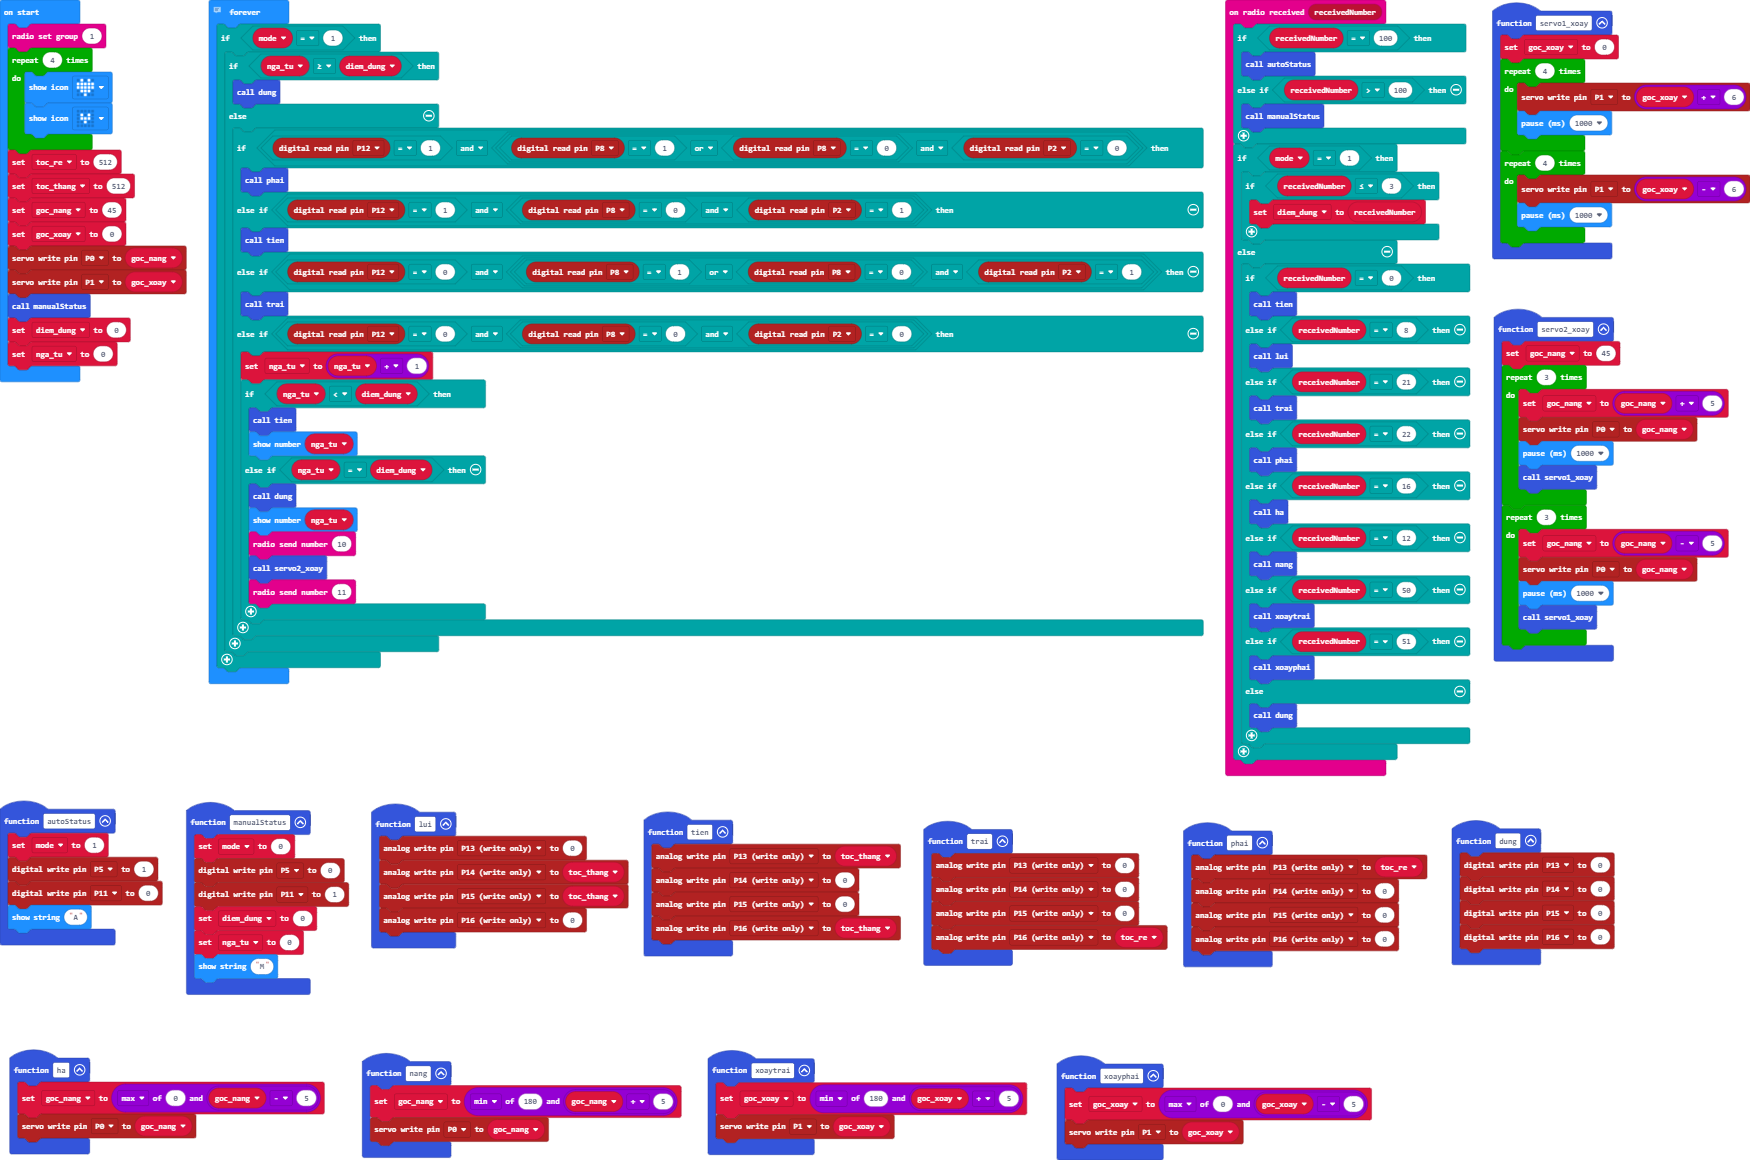
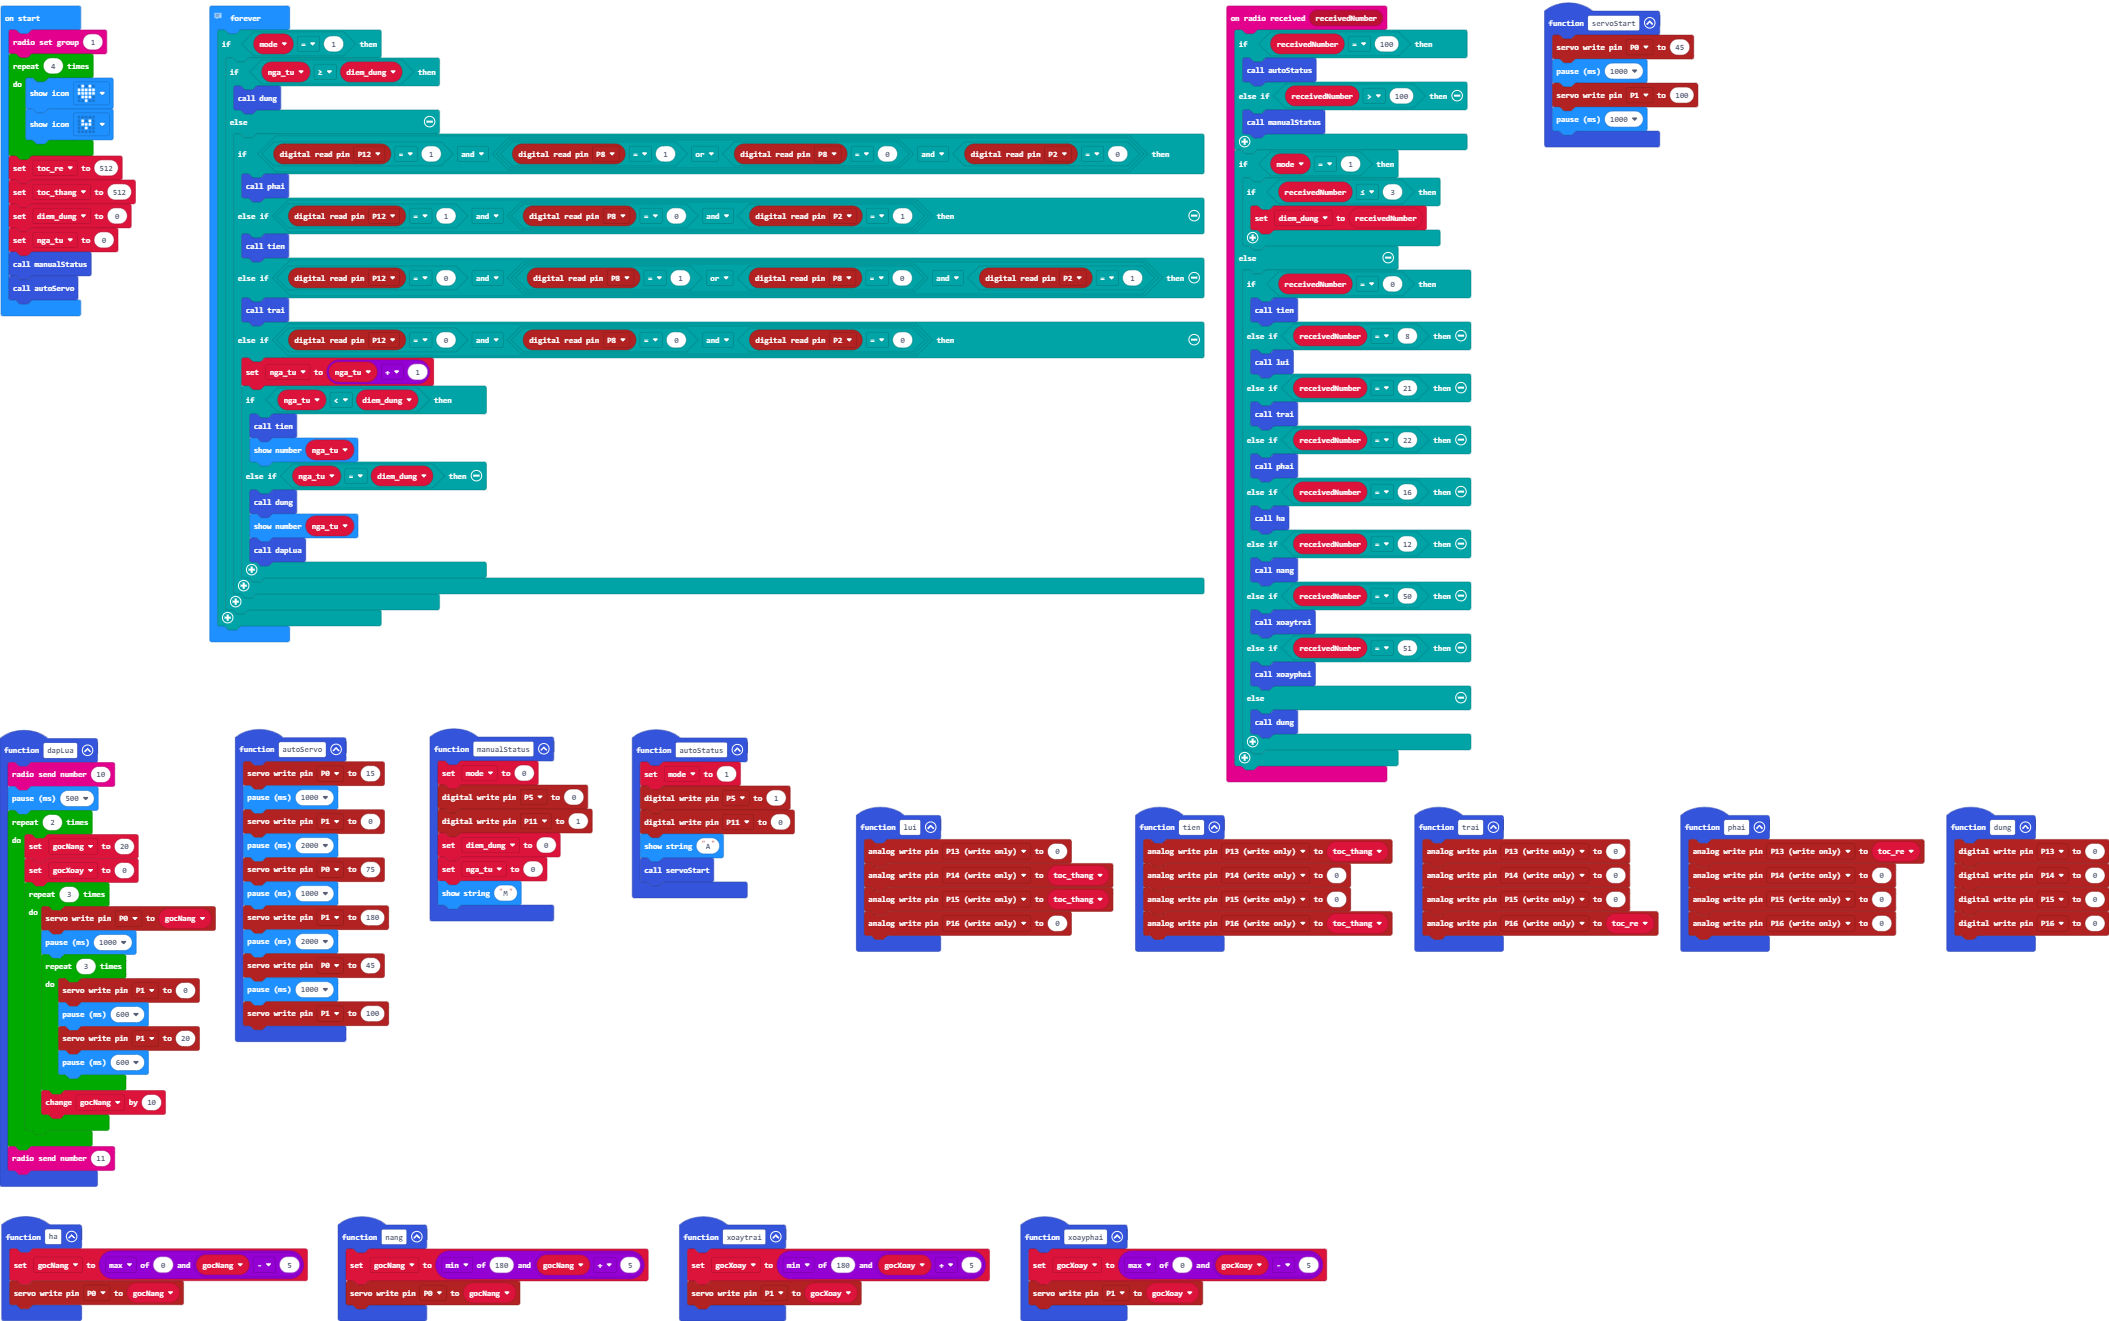
Chinh lai servo dap lua

diff --git a/main.ts b/main.ts
@@ -1,14 +1,3 @@
-function servo1_xoay () {
-    goc_xoay = 0
-    for (let index = 0; index < 4; index++) {
-        pins.servoWritePin(AnalogPin.P1, goc_xoay + 6)
-        basic.pause(1000)
-    }
-    for (let index = 0; index < 4; index++) {
-        pins.servoWritePin(AnalogPin.P1, goc_xoay - 6)
-        basic.pause(1000)
-    }
-}
 radio.onReceivedNumber(function (receivedNumber) {
     if (receivedNumber == 100) {
         autoStatus()
@@ -52,6 +41,7 @@ function autoStatus () {
     pins.digitalWritePin(DigitalPin.P5, 1)
     pins.digitalWritePin(DigitalPin.P11, 0)
     basic.showString("A")
+    servoStart()
 }
 function manualStatus () {
     mode = 0
@@ -73,32 +63,43 @@ function phai () {
     pins.analogWritePin(AnalogPin.P15, 0)
     pins.analogWritePin(AnalogPin.P16, 0)
 }
+function servoStart () {
+    pins.servoWritePin(AnalogPin.P0, 45)
+    basic.pause(1000)
+    pins.servoWritePin(AnalogPin.P1, 100)
+    basic.pause(1000)
+}
 function xoaytrai () {
-    goc_xoay = Math.min(180, goc_xoay + 5)
-    pins.servoWritePin(AnalogPin.P1, goc_xoay)
+    gocXoay = Math.min(180, gocXoay + 5)
+    pins.servoWritePin(AnalogPin.P1, gocXoay)
 }
 function nang () {
-    goc_nang = Math.min(180, goc_nang + 5)
-    pins.servoWritePin(AnalogPin.P0, goc_nang)
+    gocNang = Math.min(180, gocNang + 5)
+    pins.servoWritePin(AnalogPin.P0, gocNang)
 }
-function servo2_xoay () {
-    goc_nang = 45
-    for (let index = 0; index < 3; index++) {
-        goc_nang = goc_nang + 5
-        pins.servoWritePin(AnalogPin.P0, goc_nang)
-        basic.pause(1000)
-        servo1_xoay()
+function dapLua () {
+    radio.sendNumber(10)
+    basic.pause(500)
+    for (let index = 0; index < 2; index++) {
+        gocNang = 20
+        gocXoay = 0
+        for (let index = 0; index < 3; index++) {
+            pins.servoWritePin(AnalogPin.P0, gocNang)
+            basic.pause(1000)
+            for (let index = 0; index < 3; index++) {
+                pins.servoWritePin(AnalogPin.P1, 0)
+                basic.pause(600)
+                pins.servoWritePin(AnalogPin.P1, 20)
+                basic.pause(600)
+            }
+            gocNang += 10
+        }
     }
-    for (let index = 0; index < 3; index++) {
-        goc_nang = goc_nang - 5
-        pins.servoWritePin(AnalogPin.P0, goc_nang)
-        basic.pause(1000)
-        servo1_xoay()
-    }
+    radio.sendNumber(11)
 }
 function xoayphai () {
-    goc_xoay = Math.max(0, goc_xoay - 5)
-    pins.servoWritePin(AnalogPin.P1, goc_xoay)
+    gocXoay = Math.max(0, gocXoay - 5)
+    pins.servoWritePin(AnalogPin.P1, gocXoay)
 }
 function lui () {
     pins.analogWritePin(AnalogPin.P13, 0)
@@ -107,8 +108,8 @@ function lui () {
     pins.analogWritePin(AnalogPin.P16, 0)
 }
 function ha () {
-    goc_nang = Math.max(0, goc_nang - 5)
-    pins.servoWritePin(AnalogPin.P0, goc_nang)
+    gocNang = Math.max(0, gocNang - 5)
+    pins.servoWritePin(AnalogPin.P0, gocNang)
 }
 function tien () {
     pins.analogWritePin(AnalogPin.P13, toc_thang)
@@ -116,11 +117,24 @@ function tien () {
     pins.analogWritePin(AnalogPin.P15, 0)
     pins.analogWritePin(AnalogPin.P16, toc_thang)
 }
+function autoServo () {
+    pins.servoWritePin(AnalogPin.P0, 15)
+    basic.pause(1000)
+    pins.servoWritePin(AnalogPin.P1, 0)
+    basic.pause(2000)
+    pins.servoWritePin(AnalogPin.P0, 75)
+    basic.pause(1000)
+    pins.servoWritePin(AnalogPin.P1, 180)
+    basic.pause(2000)
+    pins.servoWritePin(AnalogPin.P0, 45)
+    basic.pause(1000)
+    pins.servoWritePin(AnalogPin.P1, 100)
+}
+let gocNang = 0
+let gocXoay = 0
 let mode = 0
 let nga_tu = 0
 let diem_dung = 0
-let goc_xoay = 0
-let goc_nang = 0
 let toc_thang = 0
 let toc_re = 0
 radio.setGroup(1)
@@ -130,13 +144,10 @@ for (let index = 0; index < 4; index++) {
 }
 toc_re = 512
 toc_thang = 512
-goc_nang = 45
-goc_xoay = 0
-pins.servoWritePin(AnalogPin.P0, goc_nang)
-pins.servoWritePin(AnalogPin.P1, goc_xoay)
-manualStatus()
 diem_dung = 0
 nga_tu = 0
+manualStatus()
+autoServo()
 // Chương trình tự động
 basic.forever(function () {
     if (mode == 1) {
@@ -157,9 +168,7 @@ basic.forever(function () {
                 } else if (nga_tu == diem_dung) {
                     dung()
                     basic.showNumber(nga_tu)
-                    radio.sendNumber(10)
-                    servo2_xoay()
-                    radio.sendNumber(11)
+                    dapLua()
                 }
             }
         }
